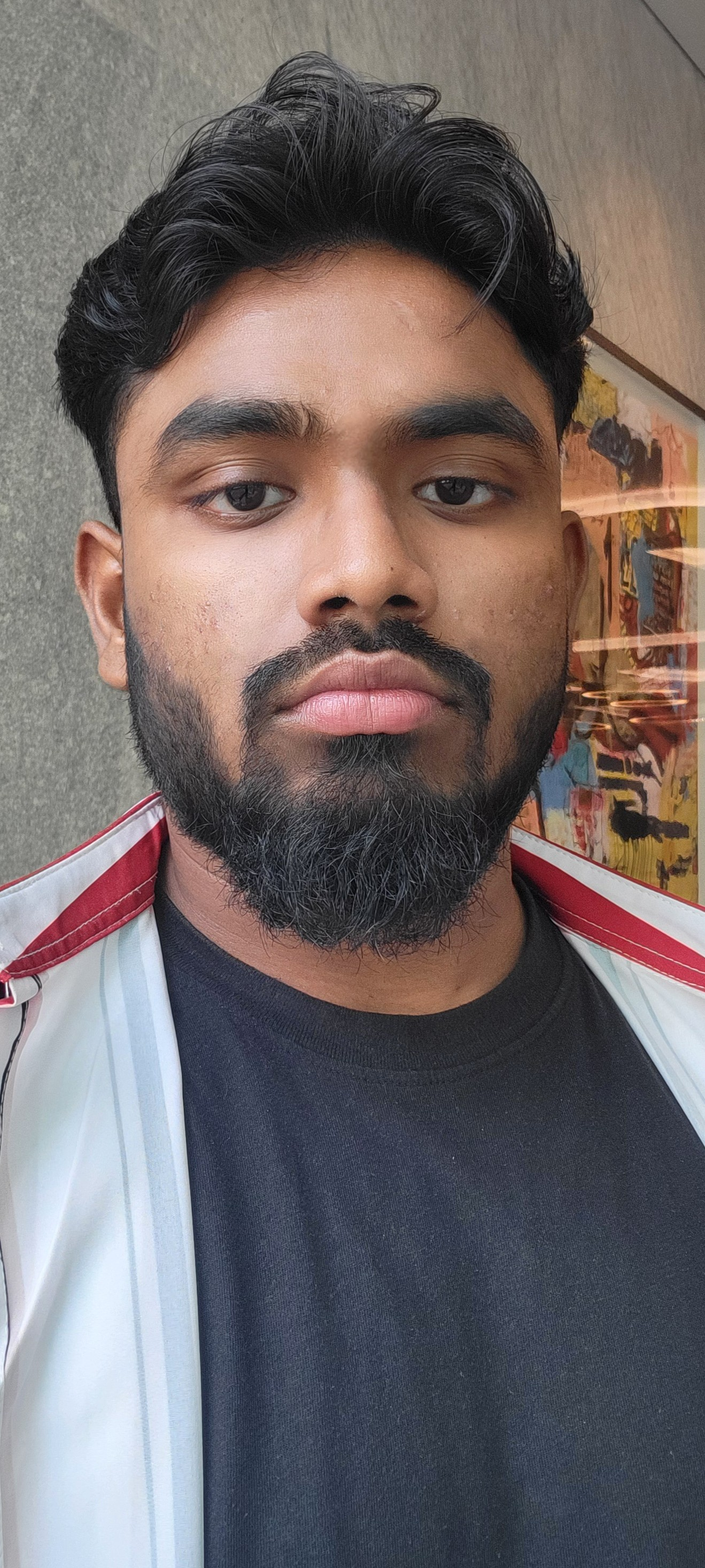
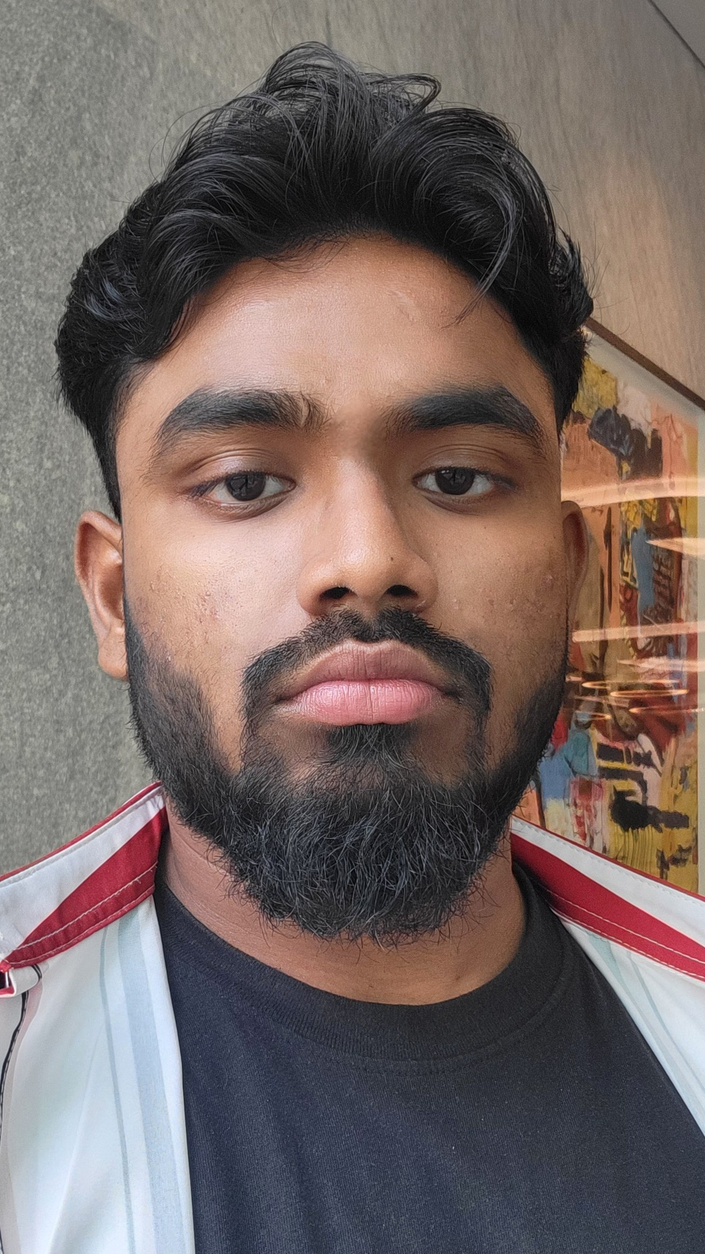
Cropped image

diff --git a/index.html b/index.html
@@ -239,15 +239,15 @@
             <p><strong class="text-slate-100">Open to:</strong> AI Engineering, ML Systems, Product Development</p>
           </div>
         </div>
-        <div class="mx-auto w-full max-w-sm">
-          <div class="overflow-hidden rounded-3xl border border-slate-500/30 bg-slate-900/50 p-2 shadow-glass">
-            <img
-              src="https://raw.githubusercontent.com/FardinSafi/personal-portfolio/main/headshot.jpg"
-              alt="Fardin Abrar Safi professional headshot"
-              class="h-[360px] w-full rounded-2xl object-cover object-top"
-              loading="lazy"
-            />
-          </div>
+        <div class="mx-auto w-full max-w-[240px] sm:max-w-[280px] lg:max-w-[300px]">
+            <div class="overflow-hidden rounded-3xl border border-slate-500/30 bg-slate-900/50 p-2 shadow-glass">
+                <img
+                src="https://raw.githubusercontent.com/FardinSafi/personal-portfolio/main/headshot.jpg"
+                alt="Fardin Abrar Safi professional headshot"
+                class="block w-full h-auto rounded-2xl"
+                loading="lazy"
+                />
+            </div>
         </div>
       </div>
     </section>
